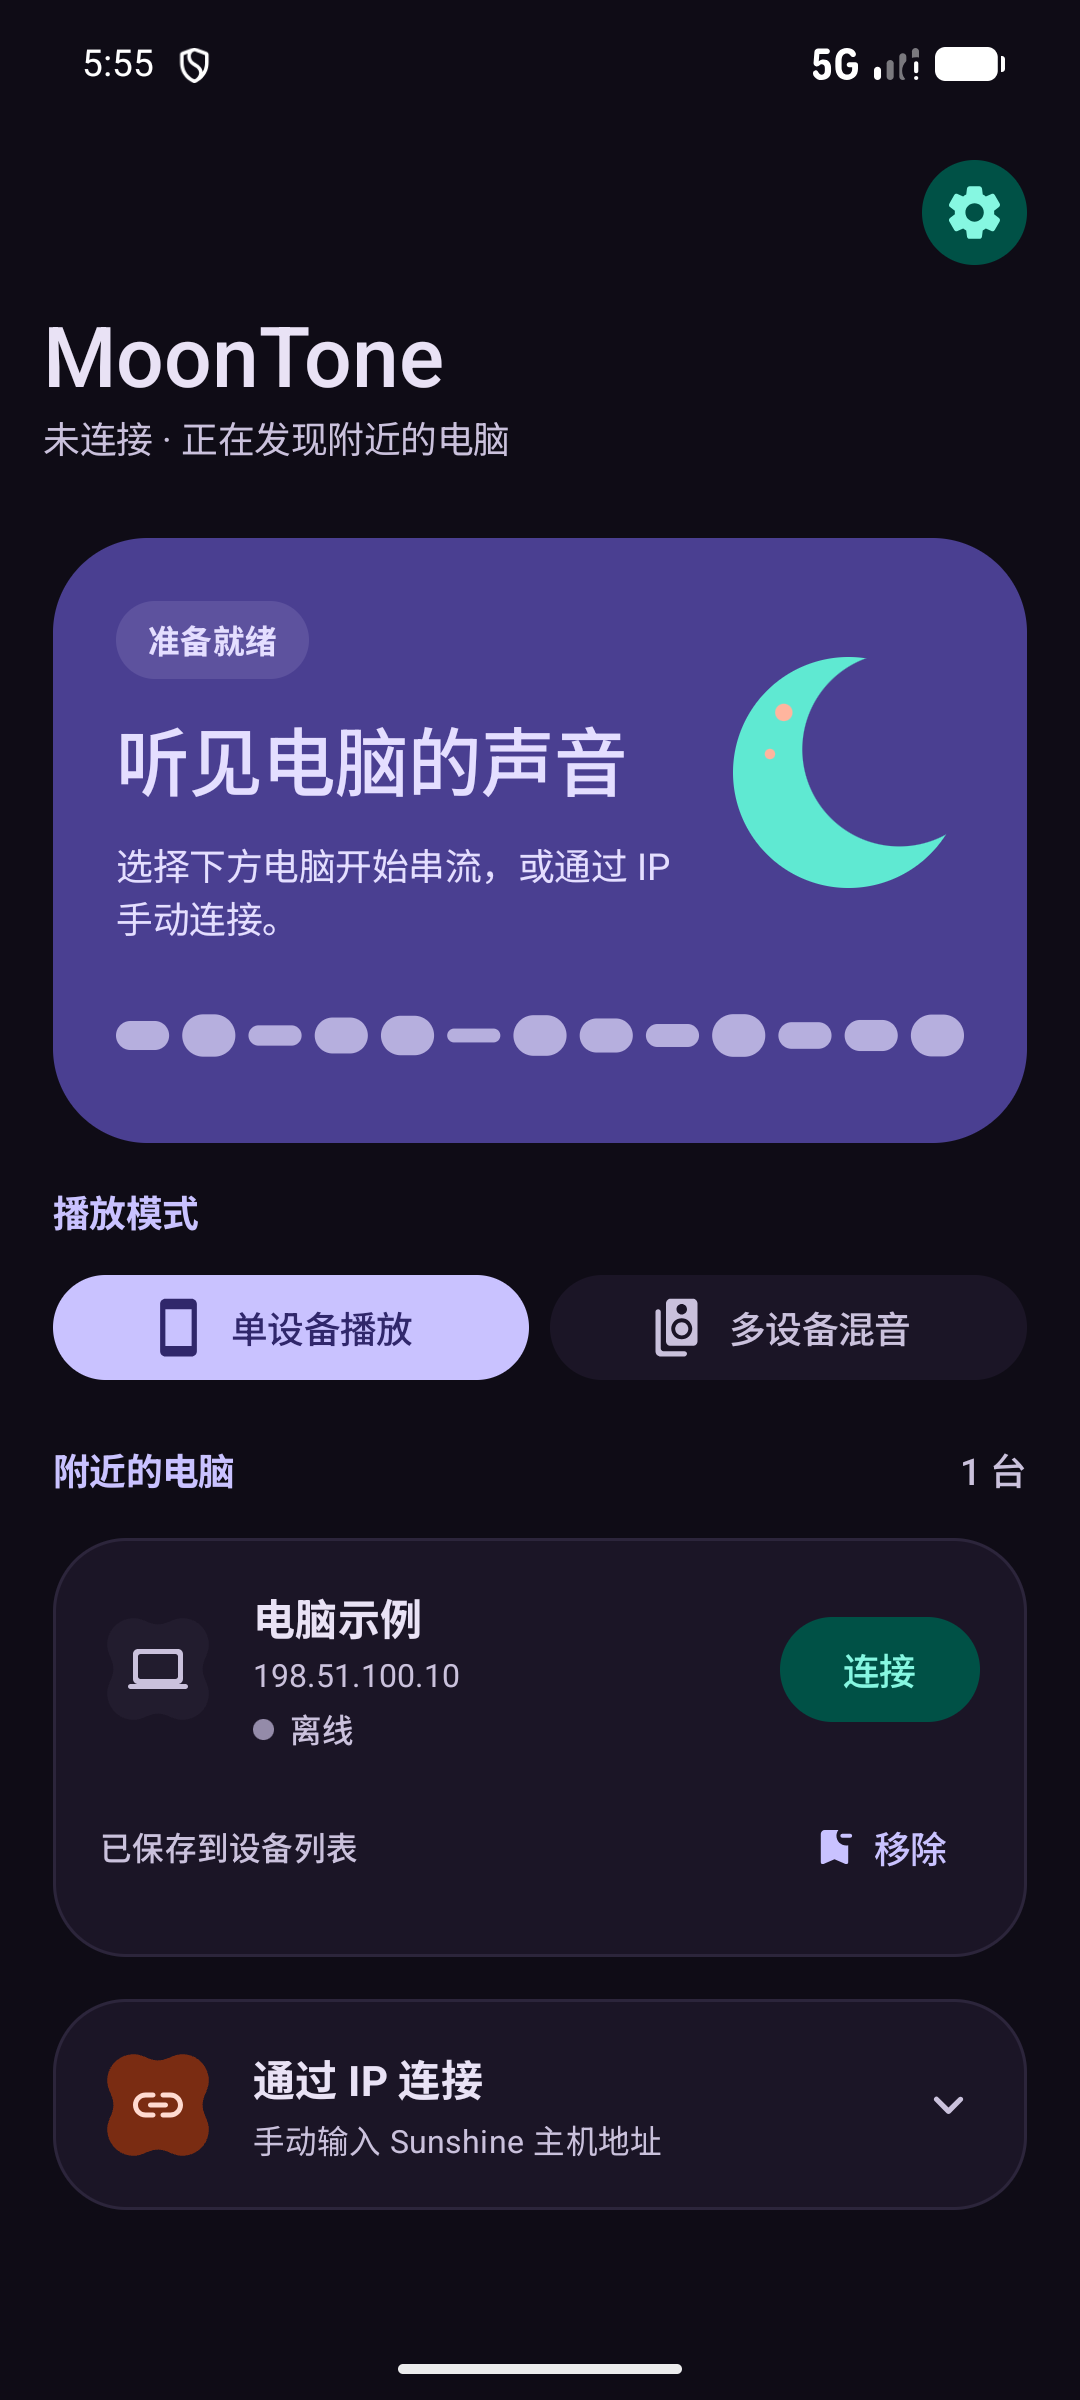
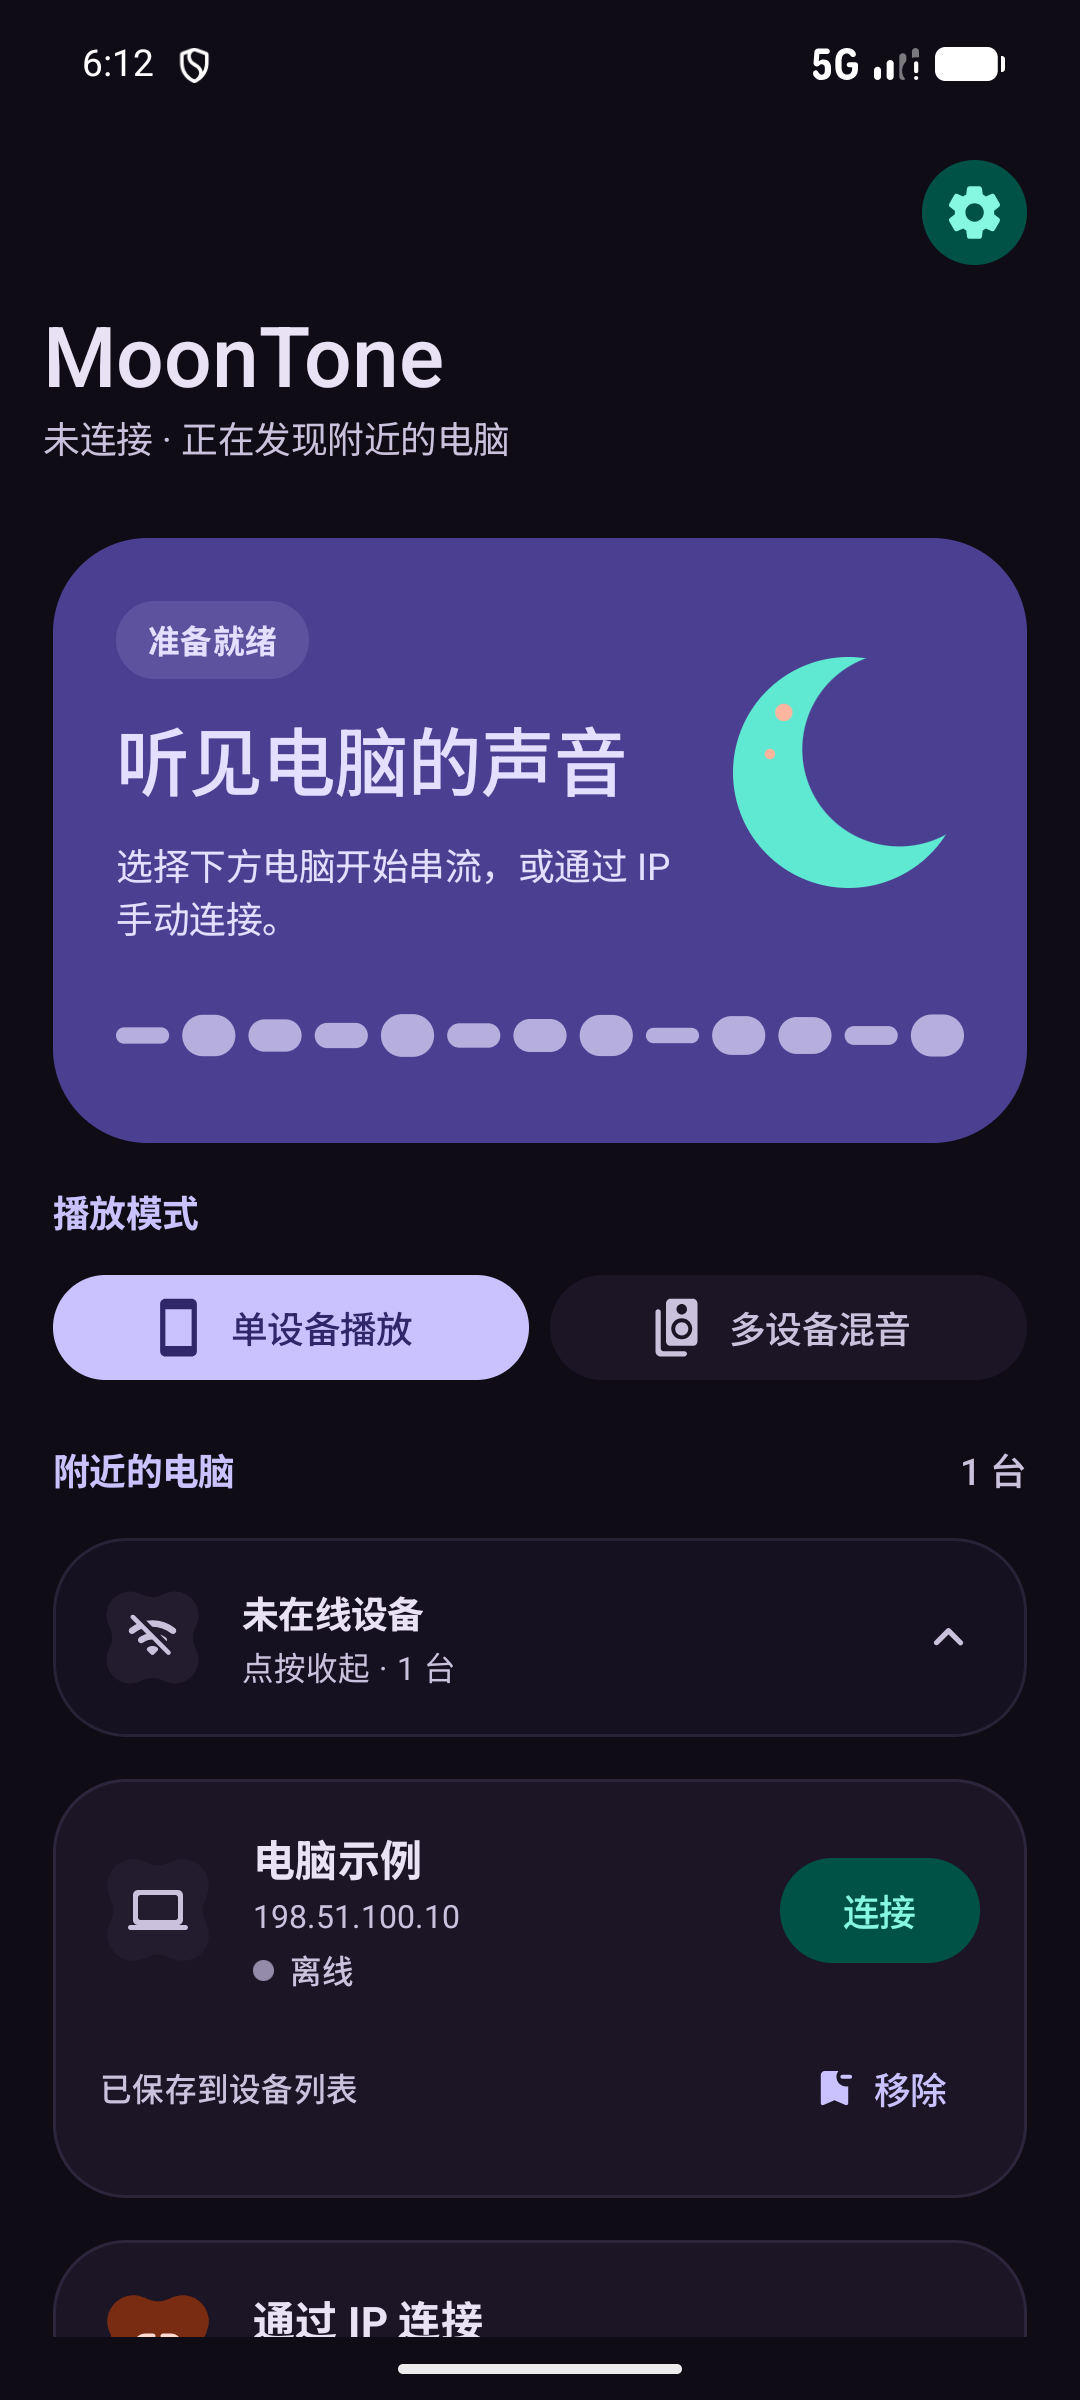
Sort online devices first and fold offline devices into a collapsible group
- Home device list now prioritises active sessions (connected/connecting/error)
  and online hosts at the top, with an "N 台在线" count in the section header
- offline devices move into an expressive "未在线设备" card that can be
  collapsed/expanded (rotating chevron, WifiOff icon badge, N 台 detail text)
- the group auto-expands after the first discovery probe when nothing is online,
  so a user whose PCs are all asleep still sees their devices instead of an
  empty list; manual collapse/expand is remembered for the session
- verified on the emulator with 1 online + 3 offline hosts (collapsed/expanded),
  all-offline auto-expand, and the normal single-host case; 34 JVM tests pass,
  lint 0 errors, debug+release builds OK

diff --git a/echolink-app/app/src/main/java/com/halo/moontone/ui/MoonToneScreen.kt b/echolink-app/app/src/main/java/com/halo/moontone/ui/MoonToneScreen.kt
@@ -425,6 +425,36 @@ private fun HomeContent(
     onMultiMute: (Int, Boolean) -> Unit,
     onMultiVolume: (Int, Float) -> Unit,
 ) {
+    // Online / active devices first; offline devices are grouped into a collapsible section.
+    val activeHosts = remember(devices, state, currentHost) {
+        buildSet {
+            devices.forEach { device -> if (device.state != MultiConnState.IDLE) add(device.host) }
+            if (state == MoonToneState.CONNECTED && currentHost.isNotBlank()) add(currentHost)
+        }
+    }
+    val sortedEntries = remember(entries, activeHosts) {
+        entries.sortedWith(
+            compareByDescending<DeviceEntry> { it.host in activeHosts }
+                .thenByDescending { it.online }
+        )
+    }
+    val onlineEntries = remember(sortedEntries, activeHosts) {
+        sortedEntries.filter { it.host in activeHosts || it.online }
+    }
+    val offlineEntries = remember(sortedEntries, activeHosts) {
+        sortedEntries.filterNot { it.host in activeHosts || it.online }
+    }
+    var offlineExpanded by rememberSaveable { mutableStateOf(false) }
+    // Never hide the only devices the user has: reveal the offline group only when the first
+    // discovery probe settles without a single online host (avoids a flash-expand before the
+    // first online map arrives).
+    LaunchedEffect(onlineEntries.size, offlineEntries.size) {
+        if (onlineEntries.isEmpty() && offlineEntries.isNotEmpty()) {
+            delay(3_000)
+            offlineExpanded = true
+        }
+    }
+
     LazyColumn(
         modifier = modifier,
         contentPadding = PaddingValues(start = 20.dp, end = 20.dp, top = 4.dp, bottom = 40.dp),
@@ -521,7 +551,11 @@ private fun HomeContent(
                     modifier = Modifier.weight(1f),
                     trailing = {
                         Text(
-                            text = if (entries.isEmpty()) "寻找中" else "${entries.size} 台",
+                            text = when {
+                                entries.isEmpty() -> "寻找中"
+                                onlineEntries.isNotEmpty() -> "${onlineEntries.size} 台在线"
+                                else -> "${entries.size} 台"
+                            },
                             style = MaterialTheme.typography.labelLarge,
                             color = MaterialTheme.colorScheme.onSurfaceVariant,
                         )
@@ -534,28 +568,55 @@ private fun HomeContent(
             item { EmptyDevicesCard(localNetworkGranted, onNavigateSettings) }
         }
 
-        items(entries, key = { it.host }) { device ->
-            val md = devices.firstOrNull { it.host == device.host }
-            val current = !mixMode && state == MoonToneState.CONNECTED && currentHost == device.host
-            DeviceRowCard(
+        items(onlineEntries, key = { it.host }) { device ->
+            DeviceListCard(
                 device = device,
-                multi = md,
-                current = current,
-                singleMuted = singleMuted,
+                devices = devices,
                 mixMode = mixMode,
+                state = state,
+                currentHost = currentHost,
+                singleMuted = singleMuted,
                 canConnect = canConnect,
-                onConnect = {
-                    if (mixMode) onMultiConnect(device.host) else onConnect(device.host)
-                },
-                onDisconnect = {
-                    if (mixMode && md != null) onMultiDisconnect(md.slot) else onSingleDisconnect()
-                },
-                onMute = {
-                    if (mixMode && md != null) onMultiMute(md.slot, !md.muted) else onToggleMute()
-                },
-                onVolume = { if (md != null) onMultiVolume(md.slot, it) },
-                onSave = { onSaveToggle(device) },
+                onConnect = onConnect,
+                onMultiConnect = onMultiConnect,
+                onSingleDisconnect = onSingleDisconnect,
+                onMultiDisconnect = onMultiDisconnect,
+                onToggleMute = onToggleMute,
+                onMultiMute = onMultiMute,
+                onMultiVolume = onMultiVolume,
+                onSaveToggle = onSaveToggle,
             )
+        }
+
+        if (offlineEntries.isNotEmpty()) {
+            item {
+                OfflineGroupHeader(
+                    count = offlineEntries.size,
+                    expanded = offlineExpanded,
+                    onToggle = { offlineExpanded = !offlineExpanded },
+                )
+            }
+            if (offlineExpanded) {
+                items(offlineEntries, key = { it.host }) { device ->
+                    DeviceListCard(
+                        device = device,
+                        devices = devices,
+                        mixMode = mixMode,
+                        state = state,
+                        currentHost = currentHost,
+                        singleMuted = singleMuted,
+                        canConnect = canConnect,
+                        onConnect = onConnect,
+                        onMultiConnect = onMultiConnect,
+                        onSingleDisconnect = onSingleDisconnect,
+                        onMultiDisconnect = onMultiDisconnect,
+                        onToggleMute = onToggleMute,
+                        onMultiMute = onMultiMute,
+                        onMultiVolume = onMultiVolume,
+                        onSaveToggle = onSaveToggle,
+                    )
+                }
+            }
         }
 
         item {
@@ -982,6 +1043,103 @@ private fun ModeSelector(mixMode: Boolean, enabled: Boolean, onSelect: (Boolean)
             weight = 1f,
             enabled = enabled,
         )
+    }
+}
+
+@Composable
+private fun DeviceListCard(
+    device: DeviceEntry,
+    devices: List<MultiDeviceState>,
+    mixMode: Boolean,
+    state: MoonToneState,
+    currentHost: String,
+    singleMuted: Boolean,
+    canConnect: Boolean,
+    onConnect: (String) -> Unit,
+    onMultiConnect: (String) -> Unit,
+    onSingleDisconnect: () -> Unit,
+    onMultiDisconnect: (Int) -> Unit,
+    onToggleMute: () -> Unit,
+    onMultiMute: (Int, Boolean) -> Unit,
+    onMultiVolume: (Int, Float) -> Unit,
+    onSaveToggle: (DeviceEntry) -> Unit,
+) {
+    val multi = devices.firstOrNull { it.host == device.host }
+    val current = !mixMode && state == MoonToneState.CONNECTED && currentHost == device.host
+    DeviceRowCard(
+        device = device,
+        multi = multi,
+        current = current,
+        singleMuted = singleMuted,
+        mixMode = mixMode,
+        canConnect = canConnect,
+        onConnect = {
+            if (mixMode) onMultiConnect(device.host) else onConnect(device.host)
+        },
+        onDisconnect = {
+            if (mixMode && multi != null) onMultiDisconnect(multi.slot) else onSingleDisconnect()
+        },
+        onMute = {
+            if (mixMode && multi != null) onMultiMute(multi.slot, !multi.muted) else onToggleMute()
+        },
+        onVolume = { if (multi != null) onMultiVolume(multi.slot, it) },
+        onSave = { onSaveToggle(device) },
+    )
+}
+
+@Composable
+private fun OfflineGroupHeader(
+    count: Int,
+    expanded: Boolean,
+    onToggle: () -> Unit,
+) {
+    val rotation by animateFloatAsState(
+        targetValue = if (expanded) 180f else 0f,
+        animationSpec = MaterialTheme.motionScheme.defaultSpatialSpec(),
+        label = "offlineChevron",
+    )
+    Surface(
+        modifier = Modifier
+            .fillMaxWidth()
+            .clip(MoonToneShape.card)
+            .clickable(onClick = onToggle),
+        shape = MoonToneShape.card,
+        color = MaterialTheme.colorScheme.surfaceContainerLow,
+        border = androidx.compose.foundation.BorderStroke(
+            width = 1.dp,
+            color = MaterialTheme.colorScheme.outlineVariant.copy(alpha = 0.35f),
+        ),
+    ) {
+        Row(
+            modifier = Modifier.fillMaxWidth().padding(18.dp),
+            verticalAlignment = Alignment.CenterVertically,
+            horizontalArrangement = Arrangement.spacedBy(14.dp),
+        ) {
+            IconBadge(
+                icon = Icons.Rounded.WifiOff,
+                containerColor = MaterialTheme.colorScheme.surfaceContainerHigh,
+                contentColor = MaterialTheme.colorScheme.onSurfaceVariant,
+                size = 40.dp,
+            )
+            Column(modifier = Modifier.weight(1f), verticalArrangement = Arrangement.spacedBy(2.dp)) {
+                Text("未在线设备", style = MaterialTheme.typography.titleSmallEmphasized)
+                Text(
+                    text = if (expanded) {
+                        "点按收起 · $count 台"
+                    } else {
+                        "$count 台设备当前未在线，点按展开"
+                    },
+                    style = MaterialTheme.typography.bodySmall,
+                    color = MaterialTheme.colorScheme.onSurfaceVariant,
+                )
+            }
+            Icon(
+                Icons.Rounded.ExpandMore,
+                contentDescription = if (expanded) "收起未在线设备" else "展开未在线设备",
+                modifier = Modifier.rotate(rotation),
+                tint = MaterialTheme.colorScheme.onSurfaceVariant,
+            )
+        }
     }
 }
 

diff --git a/docs/UI-REDESIGN.md b/docs/UI-REDESIGN.md
@@ -108,6 +108,10 @@ must reuse the components above for section headers, cards, icon badges, setting
 `MoonToneScreen.kt` owns the scaffold and top bar:
 - Home: `LargeFlexibleTopAppBar` (title "MoonTone", subtitle = live status, tonal settings
   action) + `TopAppBarDefaults.exitUntilCollapsedScrollBehavior`.
+- Home device list: connected/connecting/error sessions and online devices are sorted to the
+  top (`N 台在线` count); devices that fail the online probe are collected into a collapsible
+  "未在线设备" group (collapsed by default, auto-expanded after the first discovery probe when
+  nothing is online so the user is never left with an empty list).
 - Sub-pages: same bar component collapsed-style with back icon and page title
   (设置 / 设备声音 / 高级连接 / 运行日志 / 音频信息).
 - Page transitions: `AnimatedContent` with expressive fade+scale; `BackHandler` unchanged.
